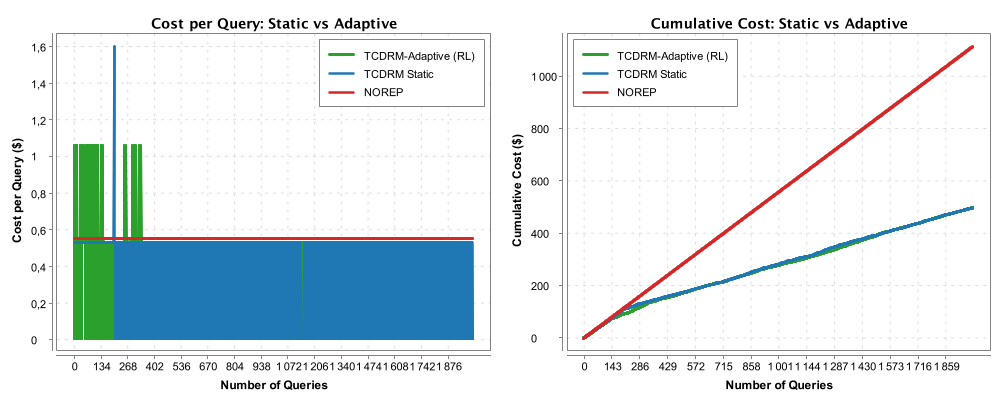
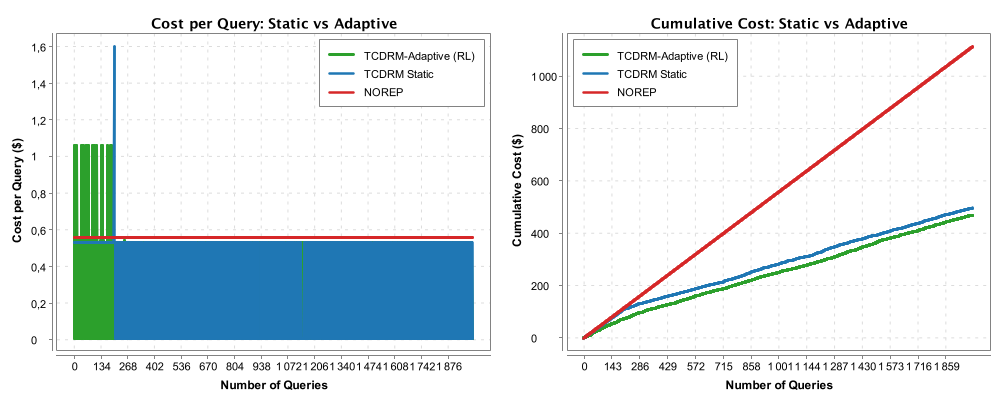
update training data

diff --git a/src/main/java/org/tcdrm/adaptive/examples/TcdrmAdaptiveComparisonV2.java b/src/main/java/org/tcdrm/adaptive/examples/TcdrmAdaptiveComparisonV2.java
@@ -67,27 +67,35 @@ public class TcdrmAdaptiveComparisonV2 {
     }
     
     /**
-     * Entraîne le modèle avec curriculum learning (10,000 requêtes)
+     * Entraîne le modèle avec curriculum learning (500,000 requêtes)
      */
     private static QLearningAgent trainWithCurriculumLearning(Long seed) {
         Random random = new Random(seed);
         
-        // Phase 1 : Petites requêtes (15000)
-        System.out.println("Phase 1 : Petites requêtes (1-5 GB) - 15000 requêtes, 800 épisodes");
-        List<QueryConfig> smallQueries = generateQueriesInRange(1.0, 5.0, 15000, seed);
-        QLearningAgent agent = trainPhase(smallQueries, 800, seed, null);
+        // Phase 1: Petites requêtes (1-5 GB)
+        List<QueryConfig> smallQueries = generateQueriesInRange(1.0, 5.0, 150_000, random.nextLong());
         
-        // Phase 2 : Moyennes requêtes (20000)
-        System.out.println("\nPhase 2 : Moyennes requêtes (5-10 GB) - 20000 requêtes, 800 épisodes");
-        List<QueryConfig> mediumQueries = generateQueriesInRange(5.0, 10.0, 20000, seed + 1);
-        agent = trainPhase(mediumQueries, 800, seed + 1, agent);
+        // Phase 2: Moyennes requêtes (5-10 GB)
+        List<QueryConfig> mediumQueries = generateQueriesInRange(5.0, 10.0, 200_000, random.nextLong());
         
-        // Phase 3 : Grandes requêtes (15000)
-        System.out.println("\nPhase 3 : Grandes requêtes (10-20 GB) - 15000 requêtes, 400 épisodes");
-        List<QueryConfig> largeQueries = generateQueriesInRange(10.0, 20.0, 15000, seed + 2);
-        agent = trainPhase(largeQueries, 400, seed + 2, agent);
+        // Phase 3: Grandes requêtes (10-20 GB)
+        List<QueryConfig> largeQueries = generateQueriesInRange(10.0, 20.0, 150_000, random.nextLong());
         
-        System.out.println("\n✓ Entraînement terminé avec 50,000 requêtes");
+        QLearningAgent agent = null;
+        
+        // Phase 1 : Petites requêtes
+        System.out.println("Phase 1 : Petites requêtes (1-5 GB) - 150000 requêtes, 800 épisodes");
+        agent = trainPhase(smallQueries, 800, random.nextLong(), agent);
+        
+        // Phase 2 : Moyennes requêtes
+        System.out.println("\nPhase 2 : Moyennes requêtes (5-10 GB) - 200000 requêtes, 800 épisodes");
+        agent = trainPhase(mediumQueries, 800, random.nextLong(), agent);
+        
+        // Phase 3 : Grandes requêtes
+        System.out.println("\nPhase 3 : Grandes requêtes (10-20 GB) - 150000 requêtes, 400 épisodes");
+        agent = trainPhase(largeQueries, 400, random.nextLong(), agent);
+        
+        System.out.println("\n✓ Entraînement terminé avec 500,000 requêtes");
         agent.getQTable().printStatistics();
         
         // Générer graphiques de convergence
@@ -623,18 +631,19 @@ public class TcdrmAdaptiveComparisonV2 {
         AdaptiveSimulationResult adaptiveResult = simulateAdaptiveV2(agent, dataGb, seed);
         
         // Générer les graphiques combinés
-        generateCombinedResponseTime(queryId, tcdrmData, adaptiveResult, norepData);
+        generateCombinedResponseTime(queryId, tcdrmData, adaptiveResult, norepData, dataGb);
         generateCombinedCost(queryId, tcdrmData, adaptiveResult, norepData);
         generateCombinedReplicas(queryId, tcdrmData, adaptiveResult);
     }
     
     private static void generateCombinedResponseTime(String queryId, BenchmarkDataPerQuery tcdrmData,
                                                        AdaptiveSimulationResult adaptiveResult,
-                                                       BenchmarkDataPerQuery norepData) throws IOException {
+                                                       BenchmarkDataPerQuery norepData,
+                                                       double dataGb) throws IOException {
         XYChart rawChart = createRLResponseTimeChart("Response Time: Static vs Adaptive (Raw)",
-                                                       tcdrmData, adaptiveResult, norepData, false);
+                                                       tcdrmData, adaptiveResult, norepData, dataGb, false);
         XYChart smoothedChart = createRLResponseTimeChart("Response Time: Static vs Adaptive (Smoothed)",
-                                                            tcdrmData, adaptiveResult, norepData, true);
+                                                            tcdrmData, adaptiveResult, norepData, dataGb, true);
         
         BufferedImage combined = combineTwoCharts(rawChart, smoothedChart);
         String filename = "images/combined_rl_response_time_" + queryId + ".png";
@@ -673,16 +682,21 @@ public class TcdrmAdaptiveComparisonV2 {
     
     private static XYChart createRLResponseTimeChart(String title, BenchmarkDataPerQuery tcdrmData,
                                                        AdaptiveSimulationResult adaptiveResult,
-                                                       BenchmarkDataPerQuery norepData, boolean smoothed) {
+                                                       BenchmarkDataPerQuery norepData, double dataGb, boolean smoothed) {
         XYChart chart = new XYChartBuilder()
             .width(500).height(400).title(title)
             .xAxisTitle("Number of Queries").yAxisTitle("Response Time (seconds)").build();
         
         styleRLChart(chart);
         
-        List<Double> tcdrmTimes = smoothed ? smoothData(tcdrmData.timePerQueryMs(), 20) : tcdrmData.timePerQueryMs();
-        List<Double> adaptiveTimes = smoothed ? smoothData(adaptiveResult.latencies, 20) : adaptiveResult.latencies;
-        List<Double> norepTimes = smoothed ? smoothData(norepData.timePerQueryMs(), 20) : norepData.timePerQueryMs();
+        // Utiliser le même lissage et la même transformation que les graphiques de comparaison
+        int window = 50;
+        List<Double> tcdrmTimes = smoothed ? toList(movingAverage(new ArrayList<>(tcdrmData.timePerQueryMs()), window))
+                                           : tcdrmData.timePerQueryMs();
+        List<Double> norepTimes = smoothed ? toList(movingAverage(new ArrayList<>(norepData.timePerQueryMs()), window))
+                                           : norepData.timePerQueryMs();
+        List<Double> adaptiveTimesRaw = computeAdaptiveResponseTimes(adaptiveResult, dataGb);
+        List<Double> adaptiveTimes = smoothed ? toList(movingAverage(adaptiveTimesRaw, window)) : adaptiveTimesRaw;
         
         XYSeries adaptiveSeries = chart.addSeries("TCDRM-Adaptive (RL)", adaptiveResult.queryNumbers, adaptiveTimes);
         adaptiveSeries.setLineColor(new Color(44, 160, 44));
@@ -700,6 +714,24 @@ public class TcdrmAdaptiveComparisonV2 {
         norepSeries.setMarker(org.knowm.xchart.style.markers.SeriesMarkers.NONE);
         
         return chart;
+    }
+
+    /**
+     * Calcule le temps de réponse adaptatif avec la même logique que generateResponseTimeGraph3Curves
+     */
+    private static List<Double> computeAdaptiveResponseTimes(AdaptiveSimulationResult adaptiveResult, double dataGb) {
+        List<Double> adaptiveResponseTime = new ArrayList<>();
+        for (int i = 0; i < adaptiveResult.latencies.size(); i++) {
+            double latencyMs = adaptiveResult.latencies.get(i);
+            int replicaCount = adaptiveResult.replicaCounts.get(i);
+            
+            double bwGbps = (replicaCount > 0 && latencyMs < 50) ? 10.0 : 1.0;
+            double transferMs = (dataGb * 8000.0 / bwGbps) + latencyMs;
+            double processingMs = dataGb * 0.5 * 60000.0;
+            double totalTimeSeconds = (transferMs + processingMs) / 1000.0;
+            adaptiveResponseTime.add(totalTimeSeconds);
+        }
+        return adaptiveResponseTime;
     }
     
     private static XYChart createRLCostChart(String title, BenchmarkDataPerQuery tcdrmData,
